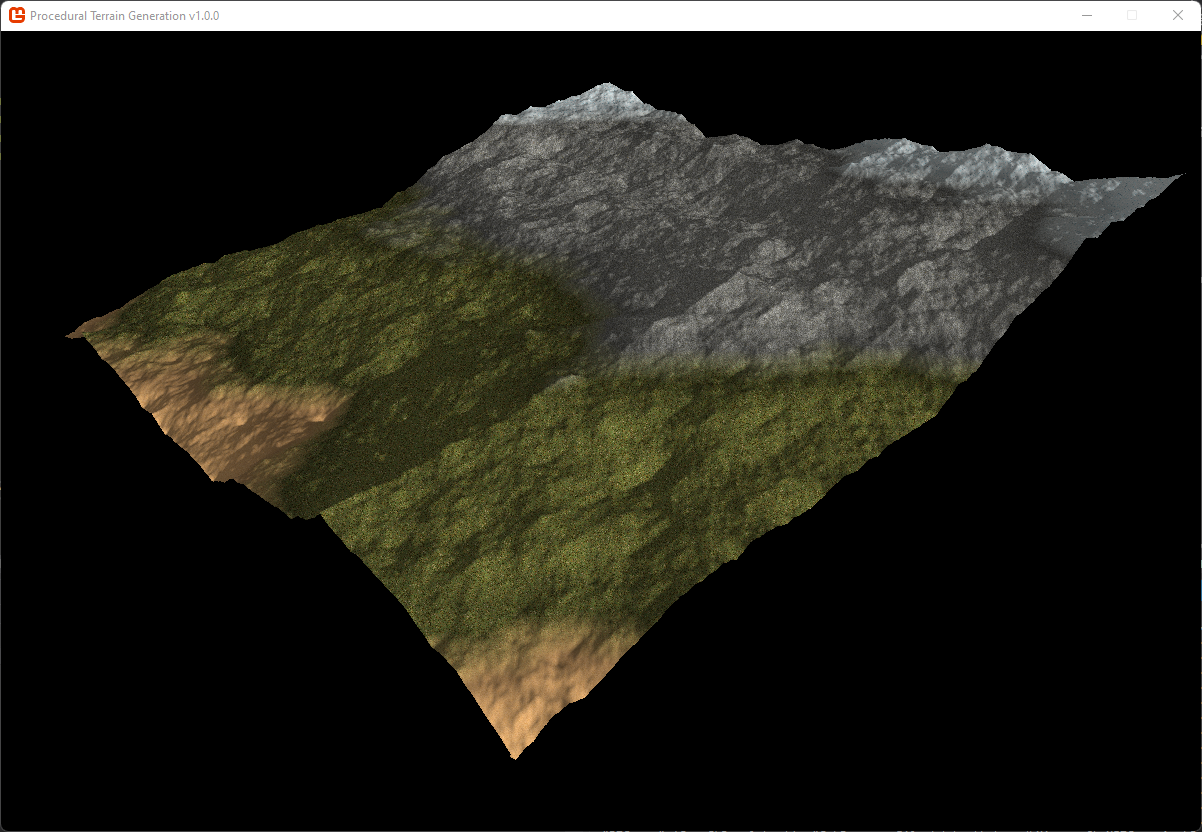
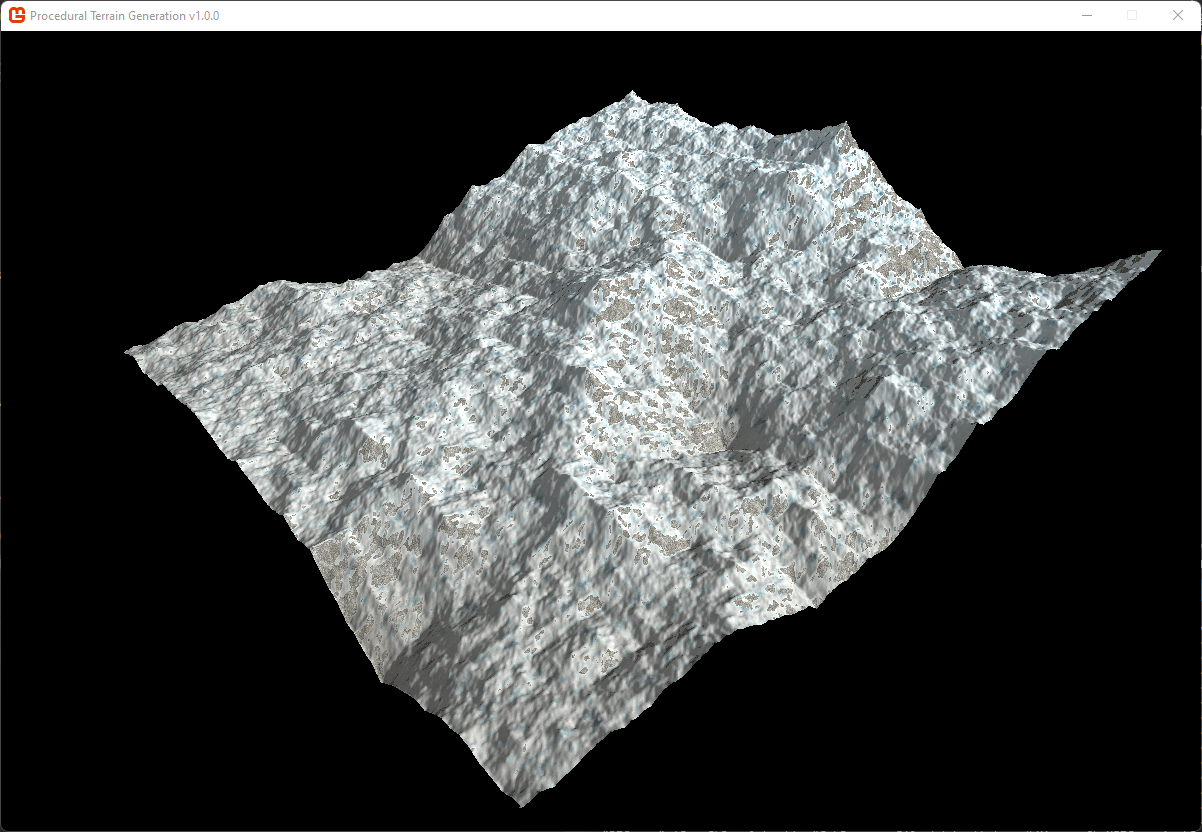
Added normal dependet texturing

diff --git a/PTG/src/core/PTGGame.cs b/PTG/src/core/PTGGame.cs
@@ -64,10 +64,10 @@ namespace PTG.core
             terrain = new Terrain(
 	            mapSize, mapSize * 2, 
 	            Content.Load<Effect>("shaders/effects"), 
-	            Content.Load<Texture2D>("images/sand"),
-	            Content.Load<Texture2D>("images/grass"),
-	            Content.Load<Texture2D>("images/snowy_rock"),
-	            Content.Load<Texture2D>("images/snowy_rock_normal"),
+	            Content.Load<Texture2D>("images/dirt"),
+	            Content.Load<Texture2D>("images/rock"),
+	            Content.Load<Texture2D>("images/snow"),
+	            Content.Load<Texture2D>("images/rock"),
                 GraphicsDevice);
             terrain.Generate();
         }

diff --git a/PTG/src/world/Terrain.cs b/PTG/src/world/Terrain.cs
@@ -41,7 +41,7 @@ namespace PTG.world
 			this.texture3 = texture3;
 			this.device = device;
 
-			maxHeight = width / 4;
+			maxHeight = width / 3;
 		}
 
 		public void Generate()
@@ -403,7 +403,7 @@ namespace PTG.world
 			effect.Parameters["World"].SetValue(Matrix.Identity);
 
 			// Lighting
-			Vector3 light = new Vector3(1.0f, -0.5f, -0.1f);
+			Vector3 light = new Vector3(1.0f, -0.5f, -0.5f);
 			light.Normalize();
 
 			effect.Parameters["LightDirection"].SetValue(light);
